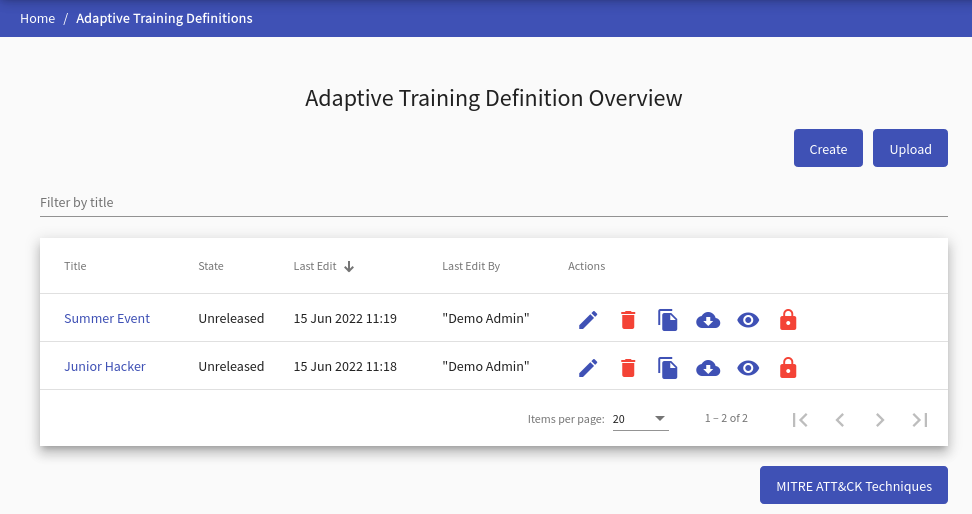
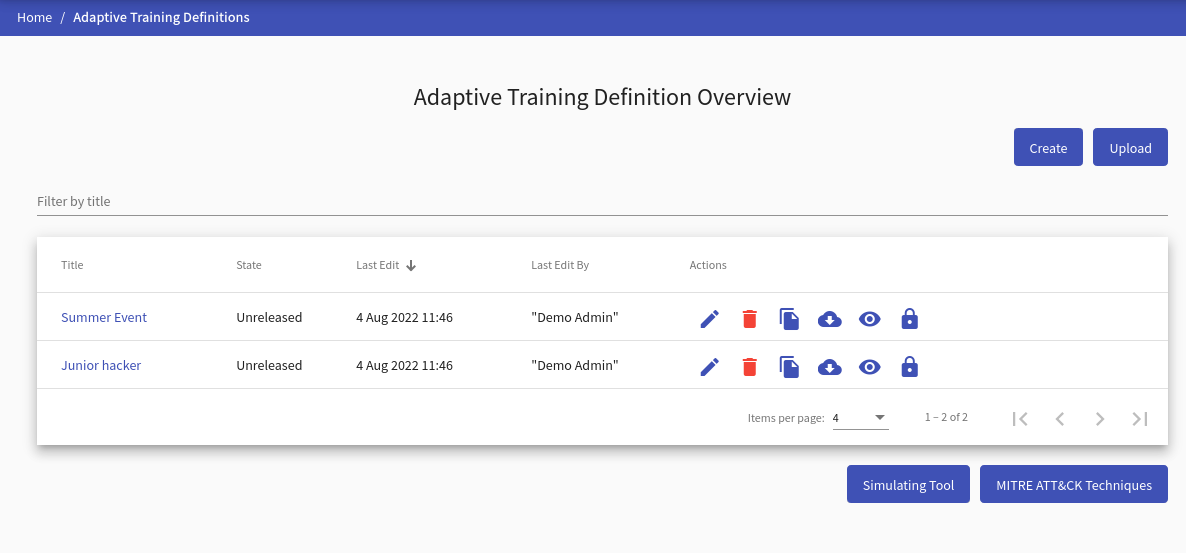
Resolve "Create documentation for adaptive simulator tools"

diff --git a/docs/user-guide-basic/training-agenda/training-definition/instance-simulator.md b/docs/user-guide-basic/training-agenda/training-definition/instance-simulator.md
@@ -1,0 +1,20 @@
+## Post-training adaptive instance simulator
+This post-training instance simulator allows the instructor to analyze the finished **adaptive** trainings further. The instructor can also use this analysis's output to improve the analyzed **adaptive** definition for future trainings.
+
+<p align="center">
+  <img src="../../../../img/user-guide-basic/training-agenda/training-definition/instance-simulator/instance-simulator-edit.png">
+</p>
+
+The simulator can be accessed by clicking the ![instance-simulator-button](../../../img/buttons/instance-simulator-button.png) button, [Adaptive Training Definition Overview page](../adaptive-training-definition/#adaptive-training-definition-overview). Simulating tool works with the data exported from the previous instances.
+!!! note
+    The Instructor can find the option to export data from the desired instance on the [Training Instances Overview](../../training-instance/#training-instance-overview) page.
+
+#### Adaptive Training Definition Panel
+This panel allows the instructor to work further with the uploaded training definition. The instructor can adjust the decision matrix weights and the selected phase's restrictions. The tool also provides a read-only view of tasks assigned to the selected phase. Moreover, the pre-training questionnaire relations are displayed upon selecting the pre-training questionnaire phase.
+
+#### Instance Simulation
+After using the ![instance-simulator-button](../../../img/buttons/generate-button.png) button, the instructor can generate participants' performance on the edited training definition. This re-generates the sankey diagram that displays the task assignment of all participants. Before the generate button is pressed, this panel shows the original sankey diagram exported with the training instance data. More precisely, the pathway of every single trainee through the training.
+
+<p align="center">
+  <img src="../../../../img/user-guide-basic/training-agenda/training-definition/instance-simulator/instance-simulator-sankey.png">
+</p>

diff --git a/docs/user-guide-basic/training-agenda/training-definition/adaptive-training-definition.md b/docs/user-guide-basic/training-agenda/training-definition/adaptive-training-definition.md
@@ -130,6 +130,11 @@ Under the MITRE ATT&CK techniques panel is a **Expected Commands** panel that th
   <img src="../../../../img/user-guide-basic/training-agenda/training-definition/adaptive/ATD-expected-commands.png">
 </p>
 
+In the Edit mode of the adaptive definition, it is also possible to simulate the performance of a single trainee. This option is of great use for the instructor. According to this simulated performance, the instructor can verify that the weights of the decision matrix are set up correctly. Simulating the performance of different trainees can be vital for creating a definition that suits the various range of trainees.
+<p align="center">
+  <img src="../../../../img/user-guide-basic/training-agenda/training-definition/adaptive/ATD-performance-simulator.png">
+</p>
+
 ##### II. Adaptive Questionnaire Phase
 In the adaptive questionnaire phase, the trainees answer a list of questions. Questions of the adaptive questionnaire can be further linked to training phases (links affect the Questionnaire Answered aspect of the Decision Matrix). Content of this phase can be edited with the following form:
 
